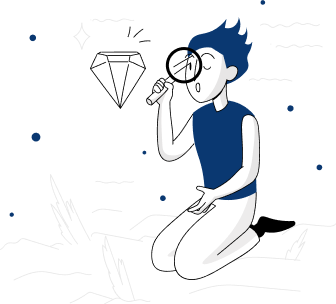
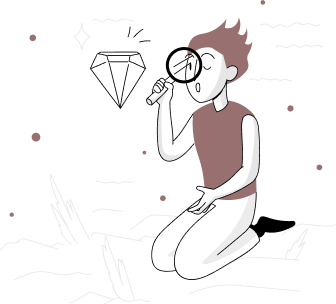
add changes

diff --git a/main.css b/main.css
@@ -1,10 +1,9 @@
 @import url('https://fonts.googleapis.com/css2?family=Inter:wght@100..900&display=swap');
 
 :root {
-    --color-primario: #F6F6F6;
-    --color-secundario: #0A3871;
-    --color-terciario: #67808E;
-    /* --color-hover: #272727; */
+    --color-primario: #F1E5D1;
+    --color-secundario: #987070;
+    --color-terciario: #EEEDEB;
     --fuente-inter: "Inter", sans-serif;
 }
 
@@ -45,7 +44,7 @@ button{
 
 .contenedor__texto .contenido__texto{
     width: 100%;
-    height: 60vh;
+    height: 45vh;
     border: none;
     background: transparent;
     margin: 3rem 0 1.5rem;
@@ -68,7 +67,8 @@ button{
     align-items: center;
     margin-top: 2rem;;
     font-size: .9rem;
-    color: var(--color-terciario);
+    /* color: #67808E; */
+    color: #495057;
 }
 
 .contenedor__mensaje__validacion .contenido__mensaje__validacion{
@@ -85,24 +85,24 @@ button{
 
 .contenedor__botones .boton__encriptar{
     background-color: var(--color-secundario);
-    color: white;
+    color: var(--color-terciario);
     border: none;
 }
 
 .contenedor__botones .boton__encriptar:hover {
-    background-color: #144d92;
+    background-color: #C39898;
     box-shadow: 0 .5rem 1rem rgba(0, 0, 0, .15);
 }
 
 .contenedor__botones .boton__desencriptar{
-    background-color: white;
+    background-color: var(--color-terciario);
     border: 1px solid var(--color-secundario);
     color: var(--color-secundario);
 }
 
 .contenedor__botones .boton__desencriptar:hover,
 .contenedor__boton__copiar .boton__copiar:hover {
-    background-color: #f8fafe;
+    background-color: #f8fafe !important;
     box-shadow: 0 .5rem 1rem rgba(0, 0, 0, .15);
 }
 
@@ -110,7 +110,7 @@ button{
     display: flex;
     flex-direction: column;
     margin-top: 2.5rem;
-    background-color: white;
+    background-color: var(--color-terciario);
     border-radius: 32px;
     text-align: center;
     padding: 1.5rem;
@@ -130,7 +130,7 @@ button{
 
 .contenedor__presentacion__texto .contenedor__boton__copiar .boton__copiar{
     width: 100%;
-    background-color: white;
+    background-color: var(--color-terciario);
     border: 1px solid var(--color-secundario);
     color: var(--color-secundario);
 }
@@ -168,11 +168,28 @@ button{
 
 .alert-danger{
     background-color: #a94442;
-    color: white;
+    color: var(--color-terciario);
     padding: 10px;
     border-radius: 10px;
 }
 
+.contenedor__texto__copiado{
+    background-color: var(--color-secundario);
+    color: var(--color-terciario);
+    padding: 8px;
+    border-radius: 10px;
+    font-size: .8rem;
+    opacity: .7;
+    margin-bottom: .9rem;
+}
+.contenedor__texto__copiado .material-icons{
+    font-size: 1rem;
+    vertical-align: middle;
+}
+
+.contenedor__texto__copiado .texto__copiado{
+    vertical-align: middle;
+}
 /* Animación */
 
 @keyframes beat {
@@ -210,7 +227,7 @@ button{
     }
 
     .contenedor__texto .contenido__texto{
-        height: 55vh;
+        height: 50vh;
     }
     
     .contenedor__presentacion__texto{

diff --git a/main.js b/main.js
@@ -17,6 +17,7 @@ const icono = document.querySelector(".material-icons");
 const imagenBuscando = document.querySelector(".imagen__buscando");
 const mensajeNoEncontrado = document.querySelector(".mensaje__no__encontrado");
 const botonCopiar = document.querySelector(".boton__copiar");
+const contenedorTextoCopiado = document.querySelector(".contenedor__texto__copiado");
 const contenedorPresentacionTexto = document.querySelector(".contenedor__presentacion__texto");
 const mensajeIngresarTexto = mensaje.textContent;
 
@@ -52,6 +53,7 @@ const inicilizarContenidoPresentacionTexto =  () => {
 }
 
 function encriptar (texto){
+    texto = texto.toLowerCase();
     let textoEncriptado = texto;
     let claves = Object.keys(llaves);
     claves = claves.join('|')
@@ -64,12 +66,9 @@ function encriptar (texto){
 
 inputTexto.addEventListener("input", (event) => {
     let texto = inputTexto.value;
-    console.log(texto);
+    // console.log(texto);
     const regex = new RegExp("^[a-z ]+$");
-    const key = !event.data ? event.which : event.data;
-    console.log(key);
-    if (!regex.test(key)) {
-        event.preventDefault();
+    if (!regex.test(event.data)) {
         inputTexto.value = texto.substr(0,texto.length-1);
         agregarClase(contenedorMensajeValidacion,'alert-danger');
         icono.style.animation = "1.5s ease 0s infinite beat";
@@ -96,6 +95,7 @@ botonEncriptar.addEventListener("click", () => {
 });
 
 function desencriptar (texto){
+    texto = texto.toLowerCase();
     let textoDesencriptado = texto;
     let valores = Object.values(llaves);
     valores = valores.join('|')
@@ -121,6 +121,17 @@ botonDesencriptar.addEventListener("click", () => {
     }
 });
 
-botonCopiar.addEventListener("click", () => {
-    navigator.clipboard.writeText(mensaje.textContent)
-});
+const copiarContenido = async () => {
+    try {
+      await navigator.clipboard.writeText(mensaje.textContent);
+    //   console.log('Contenido copiado al clipboard');
+      removerClase(contenedorTextoCopiado,'ocultar');
+      let interval = setInterval( () => {
+        agregarClase(contenedorTextoCopiado,'ocultar');
+     }, 2000 );
+    } catch (err) {
+      console.error('Falló al copiar: ', err);
+    }
+}
+
+botonCopiar.addEventListener("click", copiarContenido);

diff --git a/index.html b/index.html
@@ -33,6 +33,10 @@
                     <p class="presentacion__texto" id="mensaje">Ingresa el texto que deseas encriptar o desencriptar.</p>
                 </div>
                 <div class="contenedor__boton__copiar">
+                    <div class="contenedor__texto__copiado ocultar">
+                        <i class="material-icons">check_circle</i>
+                        <span class="texto__copiado">Texto copiado</span>
+                    </div>
                     <button type="button" class="boton__copiar ocultar">Copiar</button>
                 </div>
             </section>
